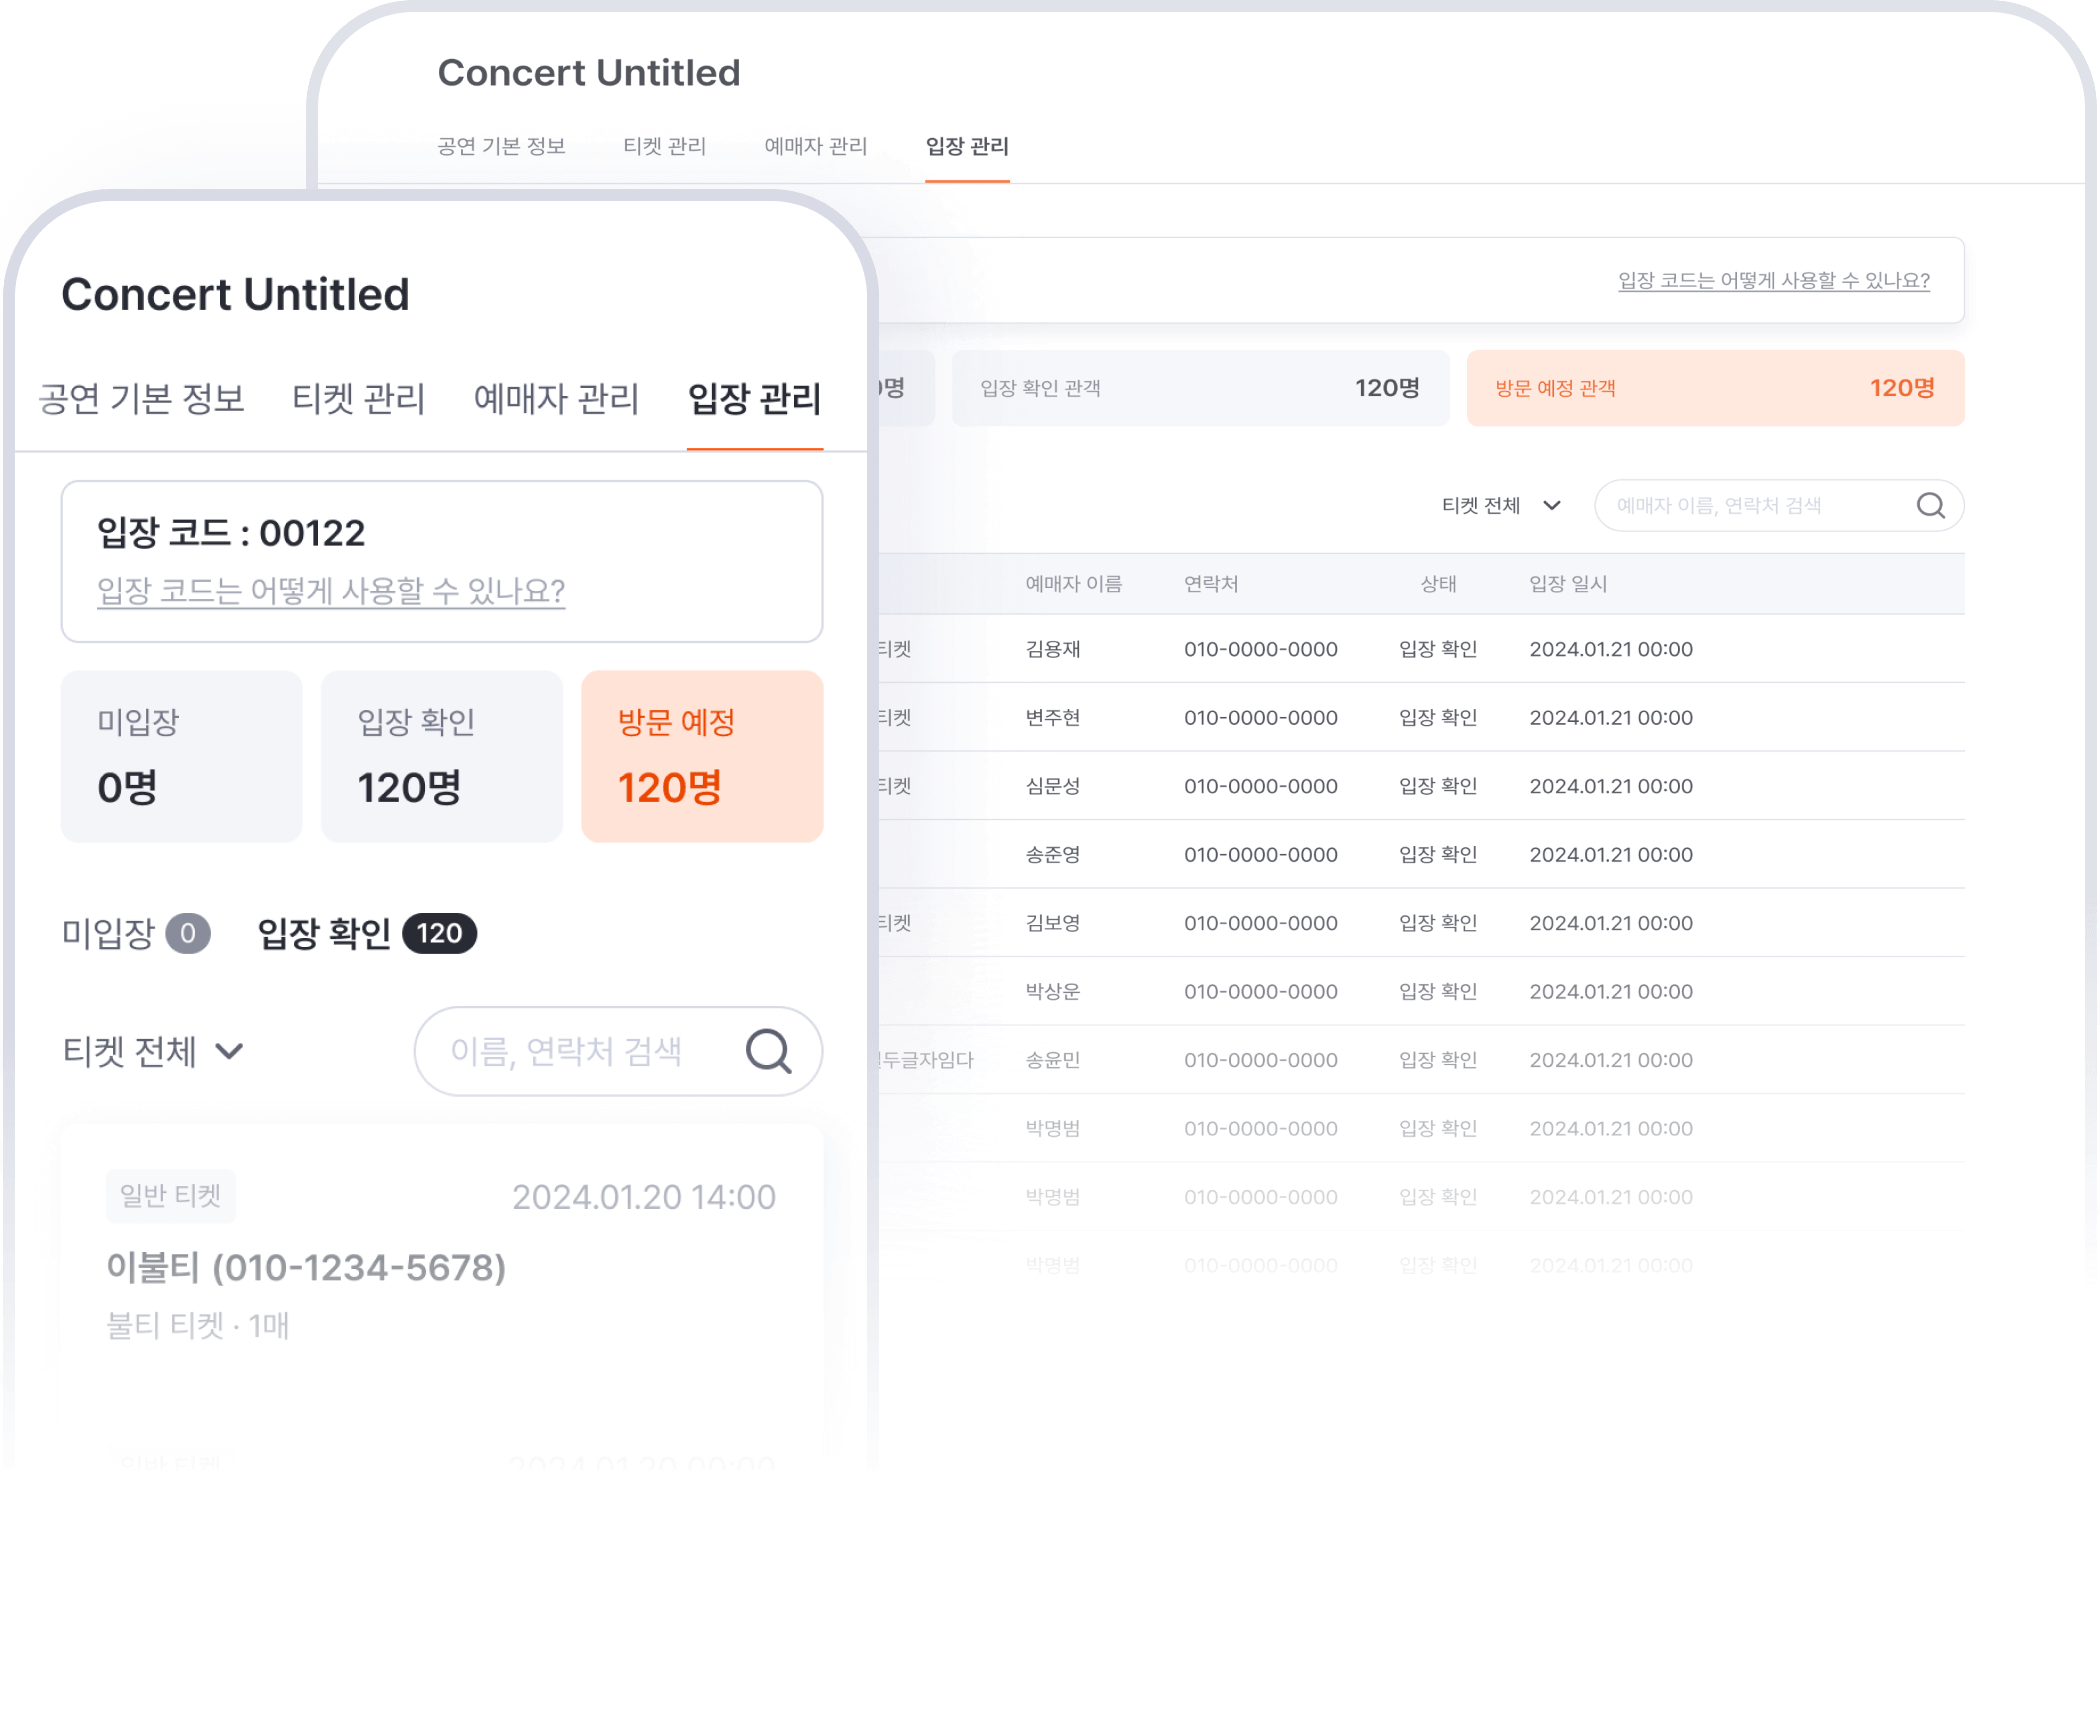
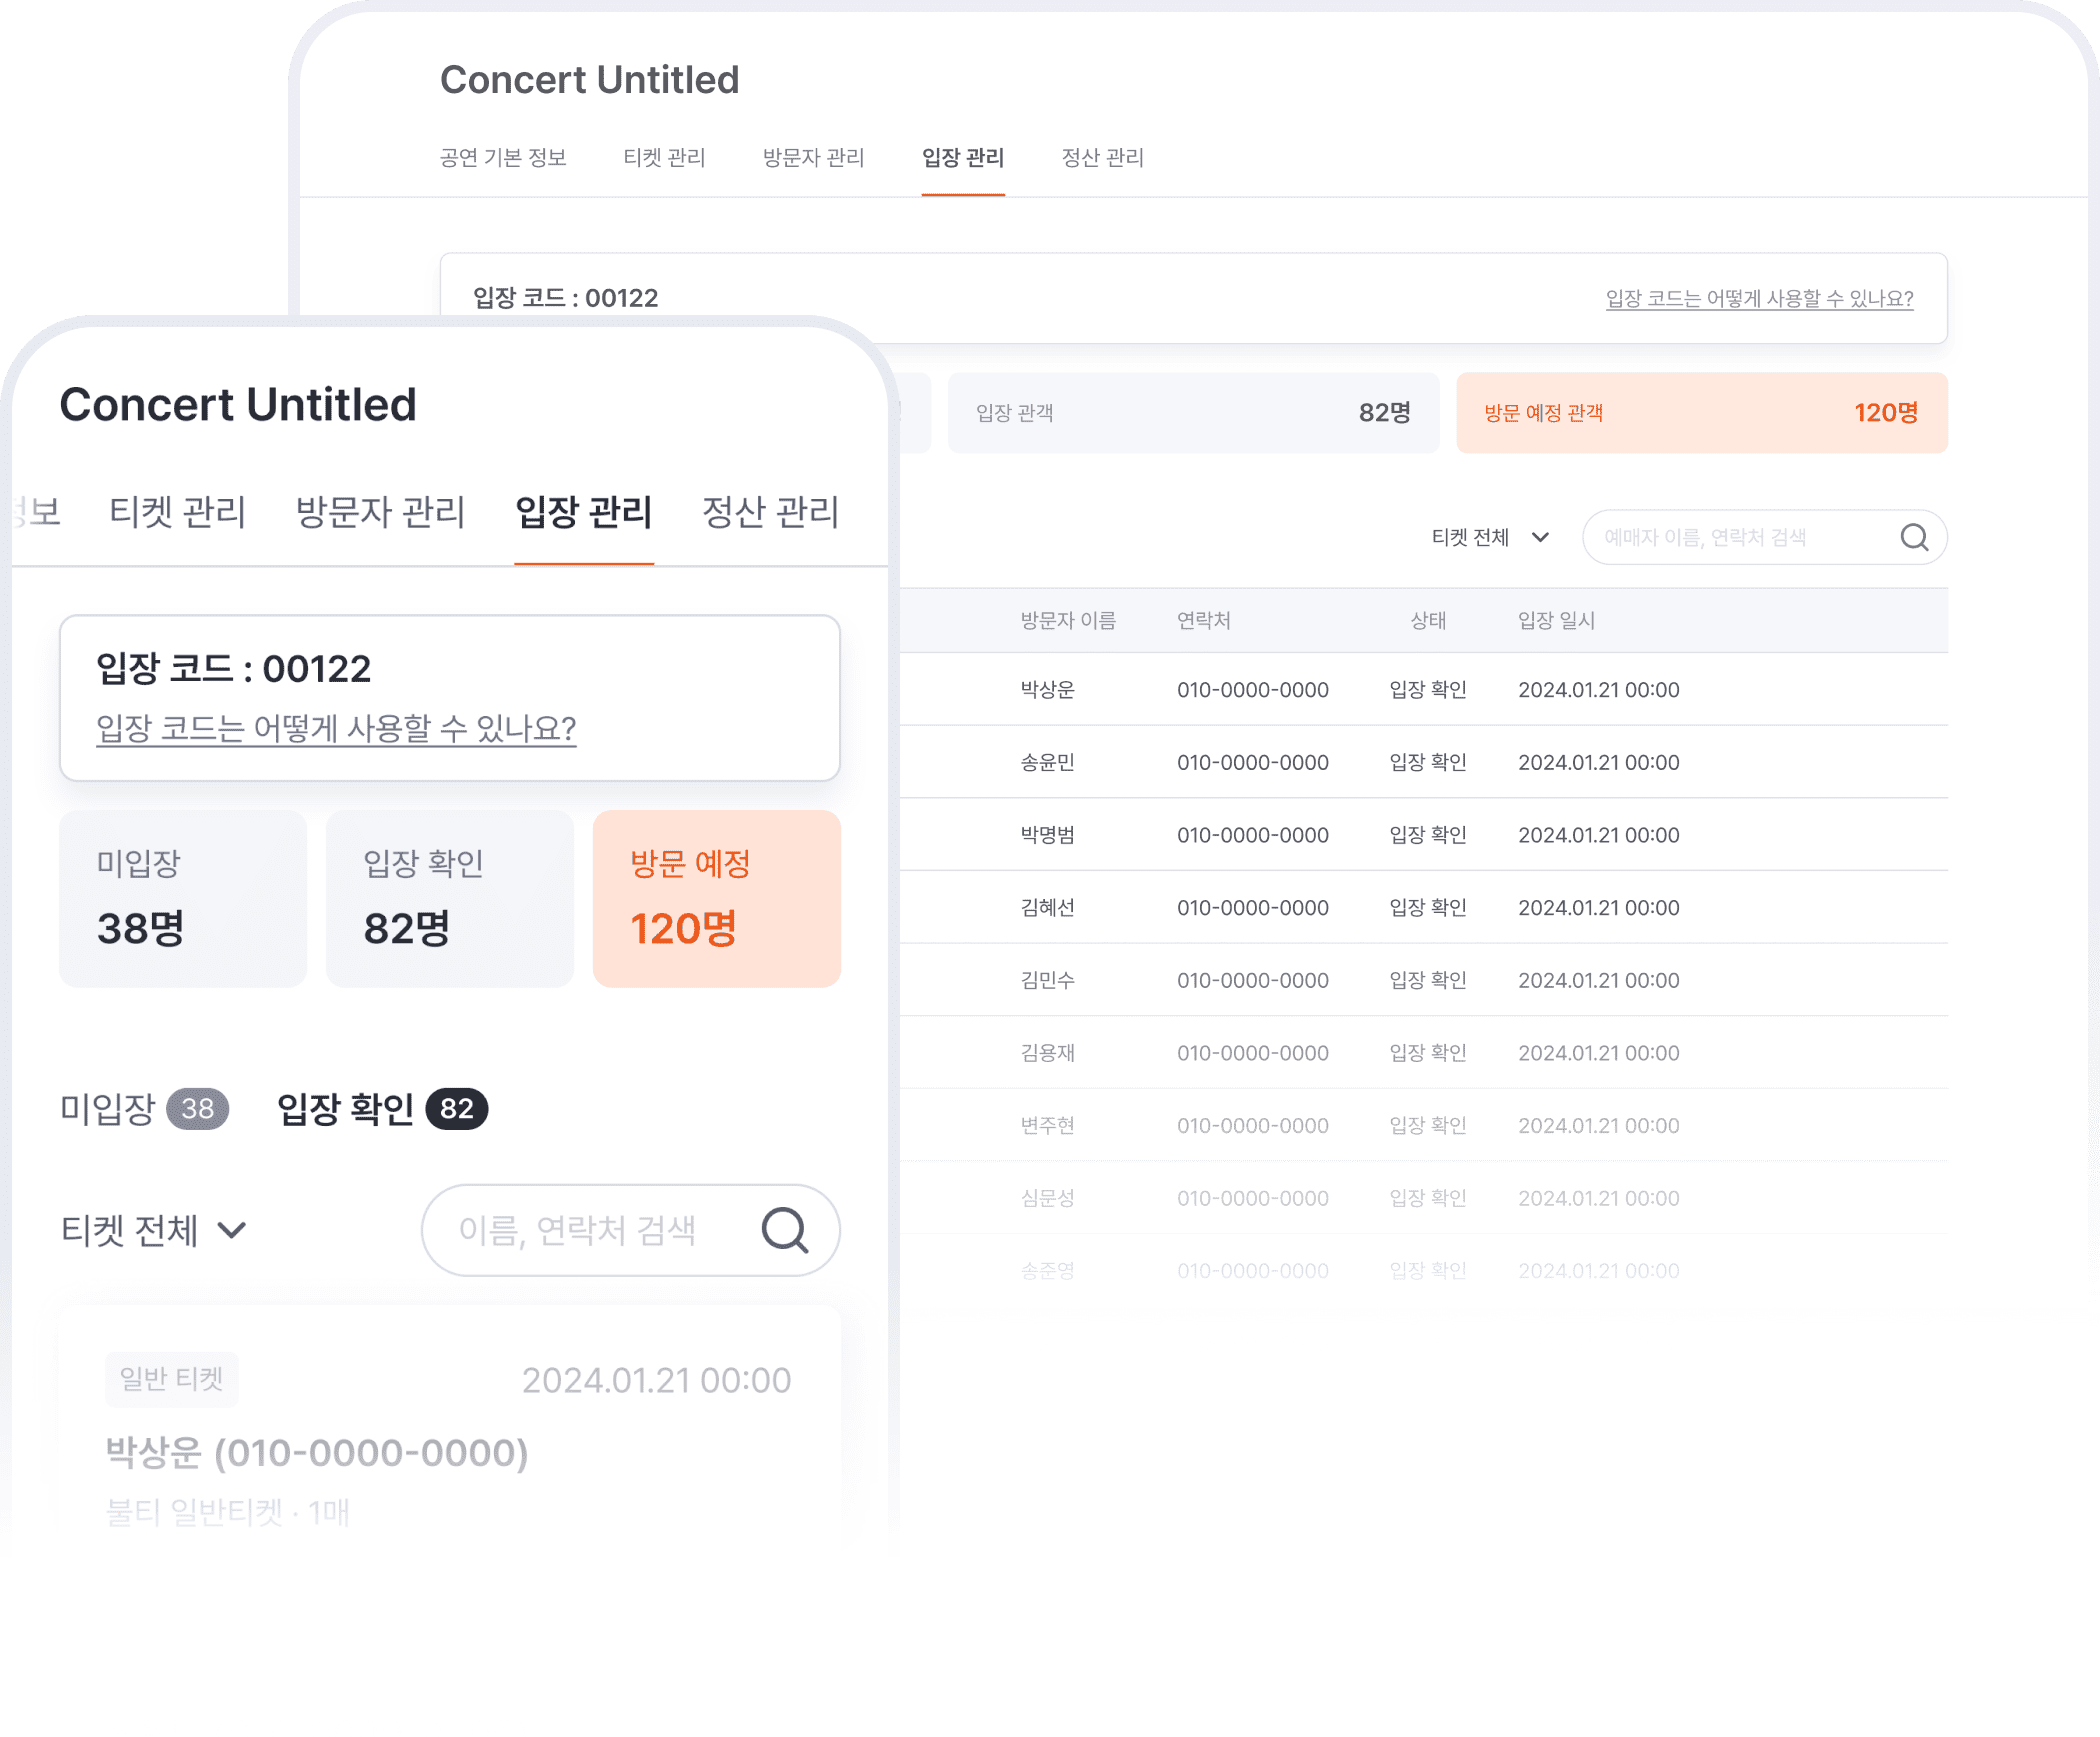
Fix/design qa (#114)
* fix: 예매자 -> 방문자 워딩 변경

* fix: 워딩 변경으로 인한 이미지 교체

diff --git a/apps/admin/src/components/EntranceConfirmDialogContent/index.tsx b/apps/admin/src/components/EntranceConfirmDialogContent/index.tsx
@@ -20,7 +20,7 @@ const EntranceConfirmDialogContent = ({ close }: Props) => {
       </Styled.MobileHeader>
       <Styled.Title>QR 스캐너</Styled.Title>
       <Styled.Description>
-        {'티켓 한 장당 1개씩 발급되는 QR코드로 빠르고 쉽게 예매자의 입장을 확인해 보세요.' +
+        {'티켓 한 장당 1개씩 발급되는 QR코드로 빠르고 쉽게 방문자의 입장을 확인해 보세요.' +
           '\n' +
           '각 공연에 부여된 QR 스캐너는 불티앱 ‘마이 > QR 스캔 > 해당 공연’으로 접근할 수 있습니다.'}
       </Styled.Description>
@@ -28,11 +28,11 @@ const EntranceConfirmDialogContent = ({ close }: Props) => {
       <Styled.Seperator />
       <Styled.Title>인증 코드</Styled.Title>
       <Styled.Description>
-        {'QR 스캐너가 작동하지 않을 때는 인증 코드로 예매자의 입장을 확인해 보세요.' +
+        {'QR 스캐너가 작동하지 않을 때는 인증 코드로 방문자의 입장을 확인해 보세요.' +
           '\n' +
           '각 공연에 부여된 인증 코드는 [앱] 해당 공연의 QR 스캐너 화면, [웹] 공연 상세 > 입장 관리 화면에서 확인 가능하며,' +
           '\n' +
-          '예매자 앱 화면 ‘티켓 상세 > 화면 하단 버튼’을 통해 코드 입력 및 인증을 진행할 수 있습니다.'}
+          '방문자 앱 화면 ‘티켓 상세 > 화면 하단 버튼’을 통해 코드 입력 및 인증을 진행할 수 있습니다.'}
       </Styled.Description>
       <Styled.Image src="/code.png" alt="" />
     </Styled.Container>

diff --git a/apps/admin/src/pages/SitePolicyPage/constants/tables.ts b/apps/admin/src/pages/SitePolicyPage/constants/tables.ts
@@ -45,7 +45,7 @@ export const privacyTableContent: Table = {
       rows: [
         {
           type: 'text',
-          text: '성명, 휴대전화 번호, 이메일,상품구매정보(카드 결제 정보, 계좌 정보, 예매자 정보(성명, 휴대전화 번호)',
+          text: '성명, 휴대전화 번호, 이메일,상품구매정보(카드 결제 정보, 계좌 정보, 방문자 정보(성명, 휴대전화 번호)',
         },
         {
           type: 'text',
@@ -97,7 +97,7 @@ export const consentTableContent: Table = {
     },
     {
       head: '제공 항목',
-      rows: [{ type: 'text', text: '예매자명, 연락처, 주문번호, 결제금액, 결제 방법' }],
+      rows: [{ type: 'text', text: '방문자명, 연락처, 주문번호, 결제금액, 결제 방법' }],
     },
     {
       head: '보유 및 이용 기간',

diff --git a/apps/admin/src/components/EnteranceTable/index.tsx b/apps/admin/src/components/EnteranceTable/index.tsx
@@ -26,7 +26,7 @@ const columns = [
     header: '티켓 이름',
   }),
   columnHelper.accessor('reservationName', {
-    header: '예매자 이름',
+    header: '방문자 이름',
     cell: (props) => {
       const { searchText = '' } = (props.table.options.meta ?? {}) as { searchText: string };
       return (
@@ -91,7 +91,7 @@ const EnteranceTable = ({ searchText, data, isEnteredTicket, onClickReset }: Pro
         <Styled.Empty>
           {isSearchResult ? (
             <>
-              검색 결과가 없어요.{'\n'}예매자 이름 또는 연락처를 변경해보세요.
+              검색 결과가 없어요.{'\n'}방문자 이름 또는 연락처를 변경해보세요.
               <Styled.ResetButton colorTheme="line" size="bold" onClick={onClickReset}>
                 검색 초기화
               </Styled.ResetButton>

diff --git a/apps/admin/src/components/ReservationTable/index.tsx b/apps/admin/src/components/ReservationTable/index.tsx
@@ -26,7 +26,7 @@ const columns = [
     header: '티켓 이름',
   }),
   columnHelper.accessor('reservationName', {
-    header: '예매자 이름',
+    header: '방문자 이름',
     cell: (props) => {
       const { searchText = '' } = (props.table.options.meta ?? {}) as { searchText: string };
       return (
@@ -126,7 +126,7 @@ const ReservationTable = ({
         <Styled.Empty>
           {isSearchResult ? (
             <>
-              검색 결과가 없어요.{'\n'}예매자 이름 또는 연락처를 변경해보세요.
+              검색 결과가 없어요.{'\n'}방문자 이름 또는 연락처를 변경해보세요.
               <Styled.ResetButton colorTheme="line" size="bold" onClick={onClickReset}>
                 검색 초기화
               </Styled.ResetButton>

diff --git a/apps/admin/src/pages/ShowReservationPage/index.tsx b/apps/admin/src/pages/ShowReservationPage/index.tsx
@@ -82,7 +82,7 @@ const ShowReservationPage = () => {
       {totalSoldCount === 0 ? (
         <Styled.Empty>
           아직 판매한 티켓이 없어요.{'\n'}
-          티켓을 판매하고 예매자 명단을 관리해 보세요.
+          티켓을 판매하고 방문자 명단을 관리해 보세요.
         </Styled.Empty>
       ) : (
         <Styled.Container>
@@ -147,7 +147,7 @@ const ShowReservationPage = () => {
                   onChange={(event) => {
                     setSearchText(event.target.value);
                   }}
-                  placeholder="예매자 이름, 연락처 검색"
+                  placeholder="방문자 이름, 연락처 검색"
                 />
                 <Styled.ButtonContainer>
                   {searchText !== '' && (

diff --git a/apps/admin/src/components/ShowInfoFormContent/ShowTicketInfoFormContent.tsx b/apps/admin/src/components/ShowInfoFormContent/ShowTicketInfoFormContent.tsx
@@ -117,7 +117,7 @@ const ShowTicketInfoFormContent = ({
         <Styled.ShowInfoFormContent>
           <Styled.ShowInfoFormLabel>티켓 구매 시 안내사항</Styled.ShowInfoFormLabel>
           <Styled.ShowInfoFormDescription>
-            예매자에게 안내할 사항이 있다면 작성해 주세요. 작성한 내용은 티켓 상세 화면에
+            방문자에게 안내할 사항이 있다면 작성해 주세요. 작성한 내용은 티켓 상세 화면에
             노출됩니다.
           </Styled.ShowInfoFormDescription>
           <Styled.TextField>

diff --git a/apps/admin/src/components/ShowInfoFormContent/ShowDetailInfoFormContent.tsx b/apps/admin/src/components/ShowInfoFormContent/ShowDetailInfoFormContent.tsx
@@ -28,7 +28,7 @@ const ShowDetailInfoFormContent = ({ form, disabled }: ShowDetailInfoFormContent
         <Styled.ShowInfoFormContent>
           <Styled.ShowInfoFormLabel required>공연 내용</Styled.ShowInfoFormLabel>
           <Styled.ShowInfoFormDescription>
-            예매자에게 알리고 싶은 공연 내용을 작성해주세요.
+            방문자에게 알리고 싶은 공연 내용을 작성해주세요.
           </Styled.ShowInfoFormDescription>
           <Controller
             control={control}

diff --git a/apps/admin/src/components/MobileCardList/index.tsx b/apps/admin/src/components/MobileCardList/index.tsx
@@ -51,7 +51,7 @@ function MobileCardList({ searchText, items, emptyText, onClickReset }: Props) {
       {isEmpty ? (
         isSearchResult ? (
           <>
-            {`검색 결과가 없어요.\n예매자 이름 또는 연락처를 변경해보세요.`}
+            {`검색 결과가 없어요.\n방문자 이름 또는 연락처를 변경해보세요.`}
             <Styled.ResetButton onClick={onClickReset}>검색 초기화</Styled.ResetButton>
           </>
         ) : (

diff --git a/apps/admin/src/pages/Landing/components/OrganizerSection/index.tsx b/apps/admin/src/pages/Landing/components/OrganizerSection/index.tsx
@@ -16,7 +16,7 @@ const OrganizerSection = () => {
         <Styled.BackgroundLight />
         <Styled.Title>누구보다 바쁜{'\n'}주최자를 위한 웹</Styled.Title>
         <Styled.Description>
-          공연을 등록하고 예매자 명단과{'\n'}
+          공연을 등록하고 방문자 명단과{'\n'}
           정산된 수익을 한눈에 확인해 보세요
         </Styled.Description>
         <Styled.Button to={PATH.HOME}>공연 준비하기</Styled.Button>

diff --git a/apps/admin/src/pages/Landing/components/UserSection/index.tsx b/apps/admin/src/pages/Landing/components/UserSection/index.tsx
@@ -23,7 +23,7 @@ const UserSection = () => {
   return (
     <Styled.Section ref={sectionRef} id="user">
       <Styled.Container>
-        <Styled.Title>빠른 입장을 원하는{'\n'}예매자를 위한 앱</Styled.Title>
+        <Styled.Title>빠른 입장을 원하는{'\n'}방문자를 위한 앱</Styled.Title>
         <Styled.Description>
           번거로운 티켓 찾기는 이제 그만!{'\n'}앱에서 바로 티켓을 제시해 보세요
         </Styled.Description>

diff --git a/apps/admin/src/components/ShowDetailLayout/index.tsx b/apps/admin/src/components/ShowDetailLayout/index.tsx
@@ -145,7 +145,7 @@ const ShowDetailLayout = ({ showName, children, onClickMiddleware }: ShowDetailL
                       navigate(HREF.SHOW_RESERVATION(params.showId));
                     }}
                   >
-                    예매자 관리
+                    방문자 관리
                   </Styled.TabItem>
                   <Styled.TabItem
                     active={matchEntryTab !== null}

diff --git a/apps/admin/src/pages/ShowEnterancePage/index.tsx b/apps/admin/src/pages/ShowEnterancePage/index.tsx
@@ -143,7 +143,7 @@ const ShowEnterancePage = () => {
                   onChange={(event) => {
                     setSearchText(event.target.value);
                   }}
-                  placeholder="예매자 이름, 연락처 검색"
+                  placeholder="방문자 이름, 연락처 검색"
                 />
                 <Styled.ButtonContainer>
                   {searchText !== '' && (
